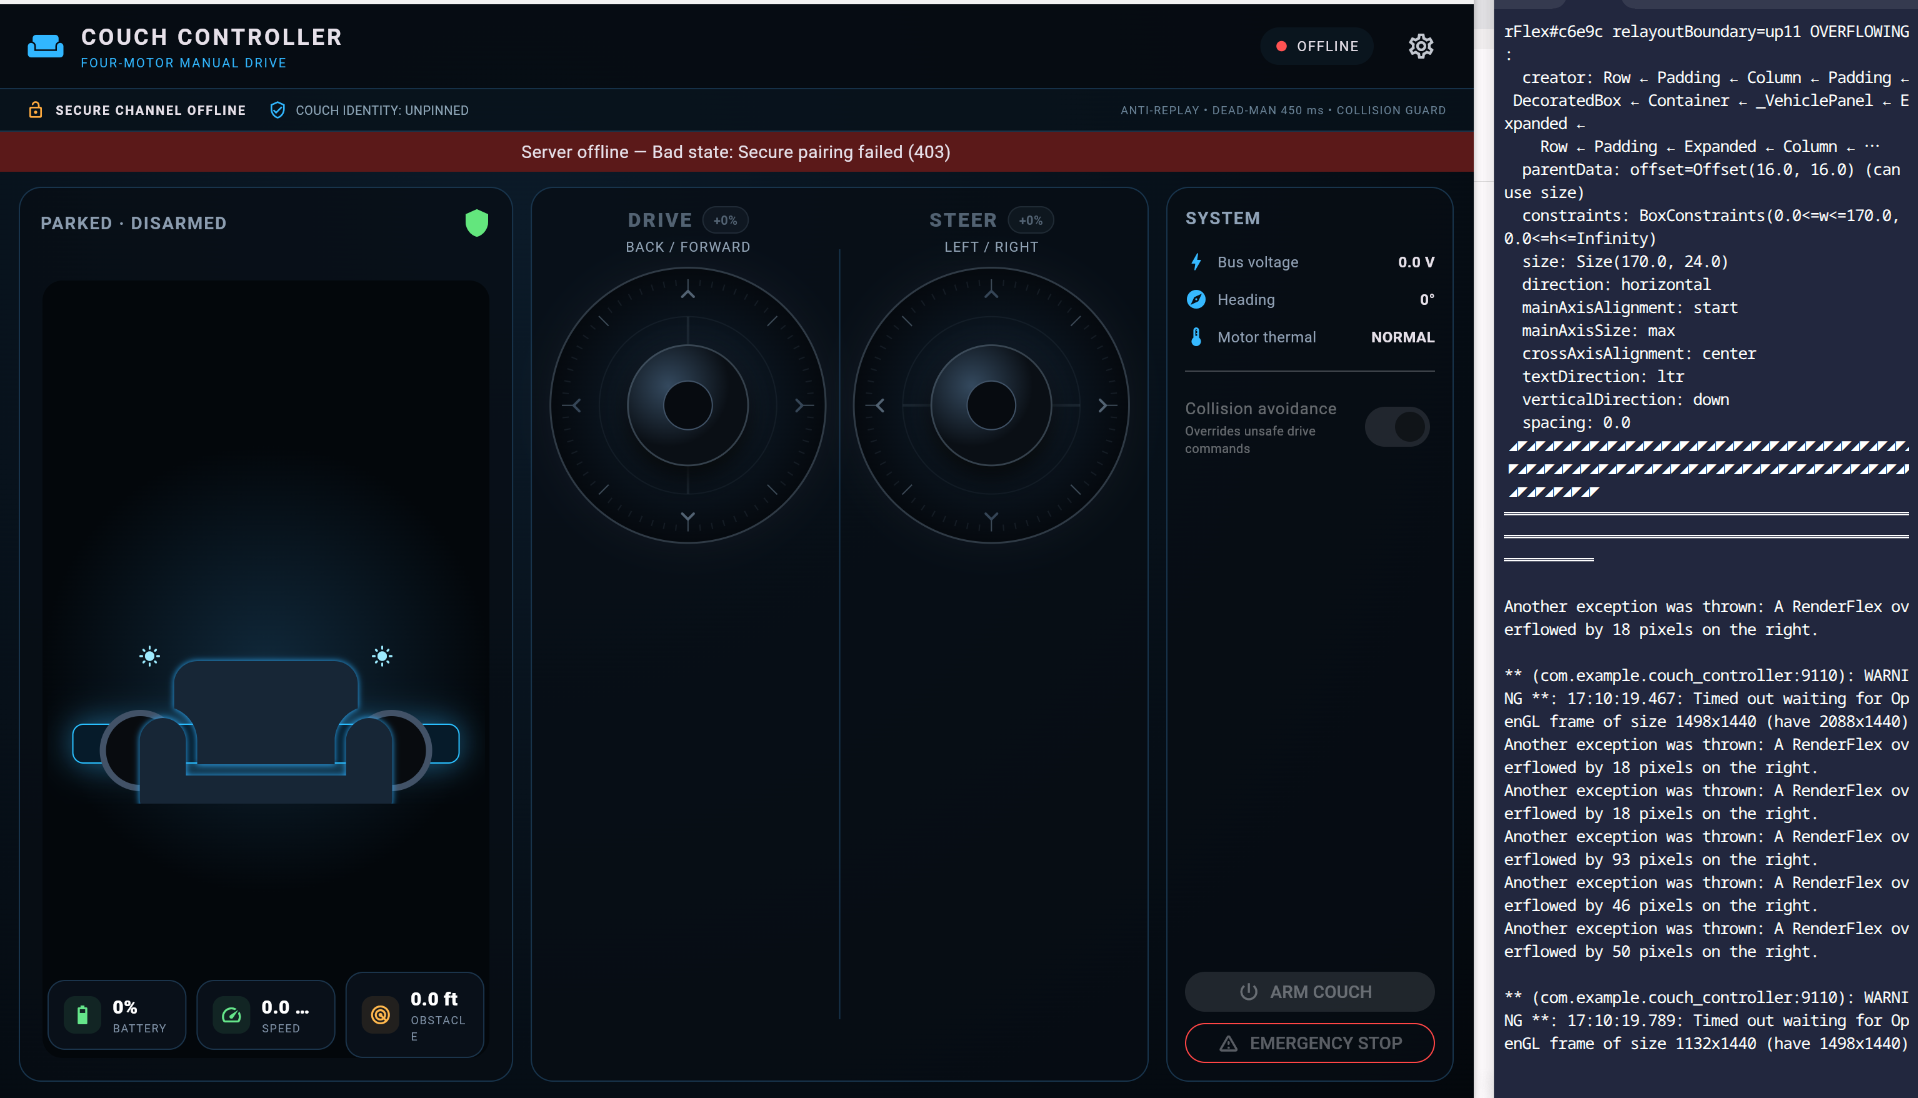
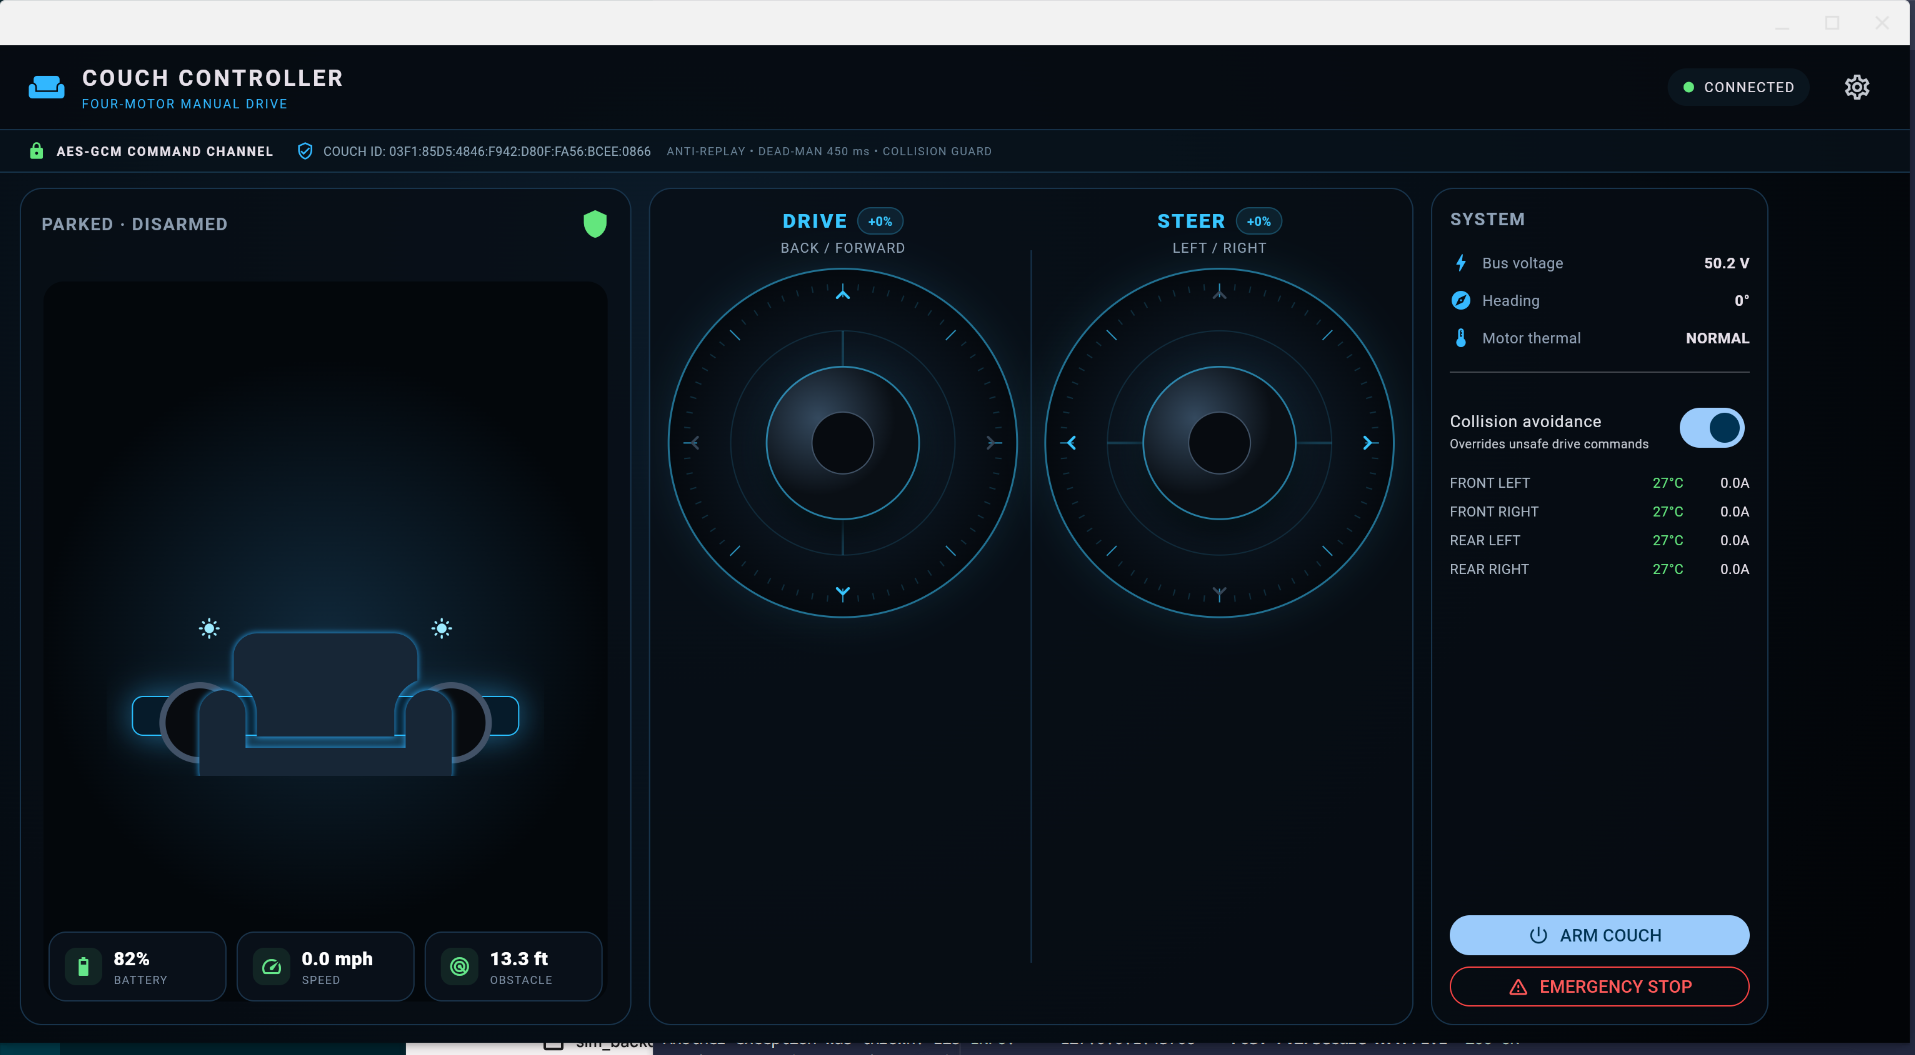
commitc

diff --git a/flutter_app/lib/security/aes_gcm_vault.dart b/flutter_app/lib/security/aes_gcm_vault.dart
@@ -5,7 +5,6 @@ import 'dart:typed_data';
 
 import 'package:cryptography/cryptography.dart';
 import 'package:flutter_secure_storage/flutter_secure_storage.dart';
-import 'package:path_provider/path_provider.dart';
 import 'package:shared_preferences/shared_preferences.dart';
 
 /// AES-256-GCM envelope storage for the API key.
@@ -30,8 +29,21 @@ class AesGcmVault {
       );
 
   Future<File> _fallbackKeyFile() async {
-    final directory = await getApplicationSupportDirectory();
+    final home = Platform.environment['HOME'];
+
+    if (home == null || home.trim().isEmpty) {
+      throw StateError('Unable to locate the Linux home directory.');
+    }
+
+    final directory = Directory('$home/.local/share/couch_controller');
     await directory.create(recursive: true);
+
+    try {
+      await Process.run('chmod', ['700', directory.path]);
+    } catch (_) {
+      // Best effort on systems without chmod.
+    }
+
     return File('${directory.path}/$_fallbackFileName');
   }
 

diff --git a/flutter_app/lib/services/ble_couch_transport.dart b/flutter_app/lib/services/ble_couch_transport.dart
@@ -39,7 +39,7 @@ class BleCouchTransport {
 
   Future<void> connect(BluetoothDevice device) async {
     await disconnect();
-    await device.connect(timeout: const Duration(seconds: 12), license: License.free);
+    await device.connect(timeout: const Duration(seconds: 12));
     final services = await device.discoverServices();
     final service = services.firstWhere((s) => s.uuid == serviceUuid);
     _command = service.characteristics.firstWhere((c) => c.uuid == commandUuid);

diff --git a/flutter_app/linux/flutter/generated_plugin_registrant.cc b/flutter_app/linux/flutter/generated_plugin_registrant.cc
@@ -6,9 +6,13 @@
 
 #include "generated_plugin_registrant.h"
 
+#include <flutter_libserialport/flutter_libserialport_plugin.h>
 #include <flutter_secure_storage_linux/flutter_secure_storage_linux_plugin.h>
 
 void fl_register_plugins(FlPluginRegistry* registry) {
+  g_autoptr(FlPluginRegistrar) flutter_libserialport_registrar =
+      fl_plugin_registry_get_registrar_for_plugin(registry, "FlutterLibserialportPlugin");
+  flutter_libserialport_plugin_register_with_registrar(flutter_libserialport_registrar);
   g_autoptr(FlPluginRegistrar) flutter_secure_storage_linux_registrar =
       fl_plugin_registry_get_registrar_for_plugin(registry, "FlutterSecureStorageLinuxPlugin");
   flutter_secure_storage_linux_plugin_register_with_registrar(flutter_secure_storage_linux_registrar);
